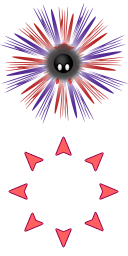
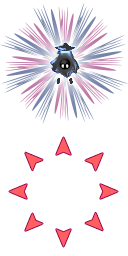
teleport sprites

Changed region(s): [[0.0312, 0.0, 0.9688, 0.4688]]

diff --git a/LetoilePlayerReskin/files.js b/LetoilePlayerReskin/files.js
@@ -360,7 +360,7 @@
 	"th165/msg22d.msg.jdiff": null,
 	"th165/player/pl00.png": null,
 	"th165/player/pl00/pl00.png": 1022412531,
-	"th165/player/pl00/pl00b.png": 600162540,
+	"th165/player/pl00/pl00b.png": 1814631029,
 	"th165/player/pl00b.png": null,
 	"th165/spells.js": null,
 	"th165/stgenm/16/cdbg06a.png": null,